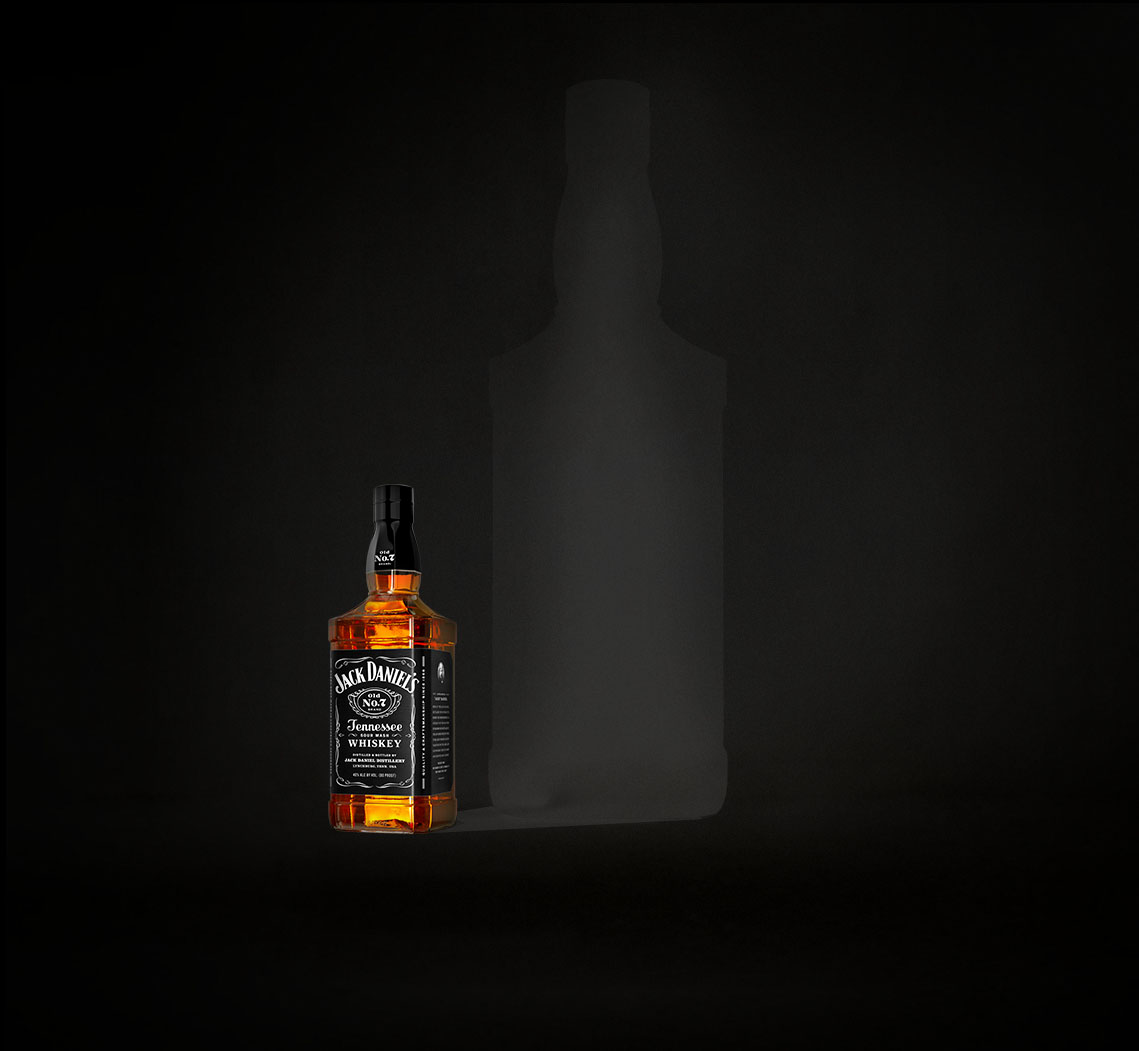
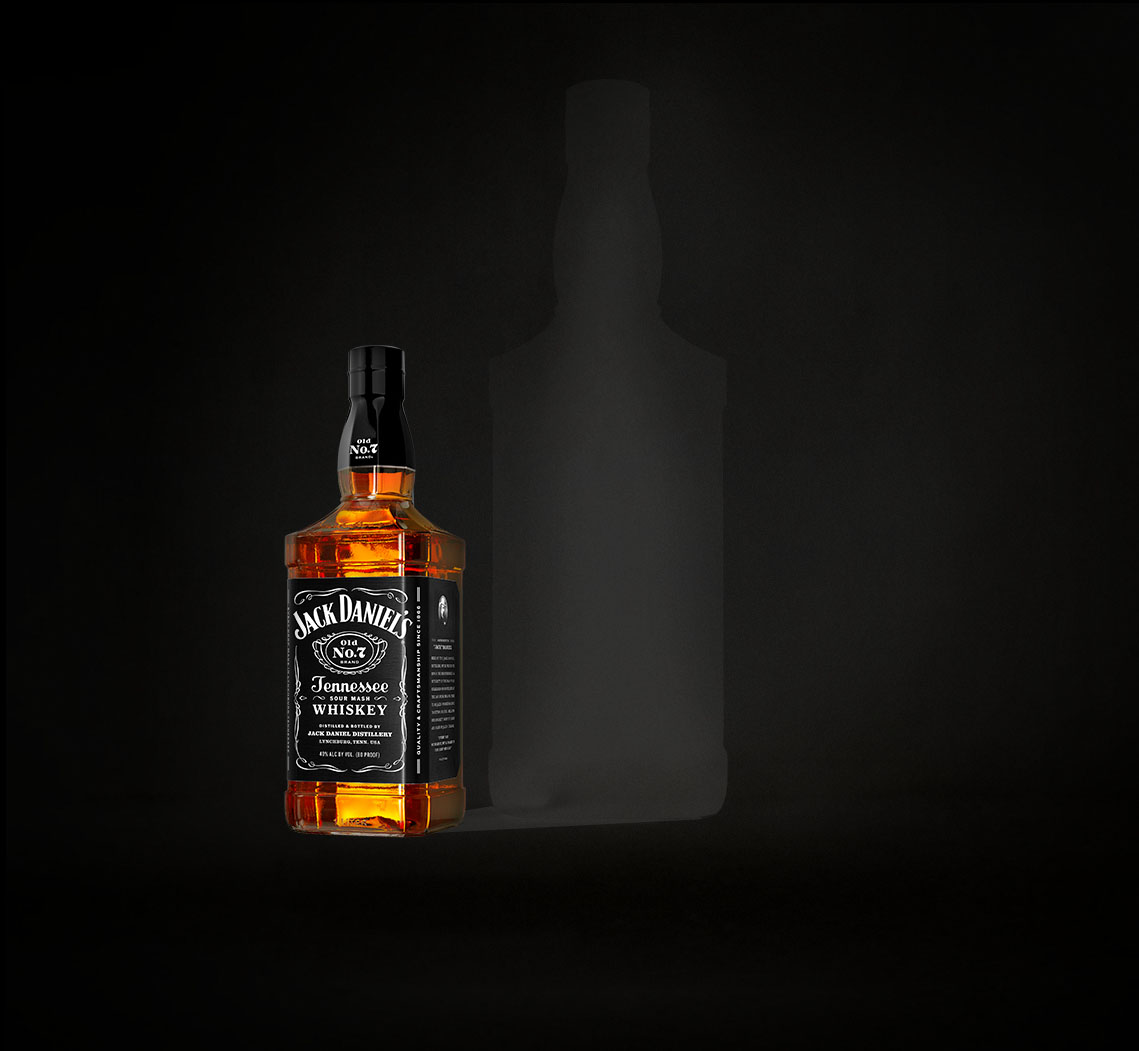
powiększenie butelki i przesunięcie tekstu w cieniu

Changed region(s): [[0.2458, 0.3349, 0.4302, 0.8221]]

diff --git a/jackDaniels_interakcja_tetris/jackDaniels_interakcja_tetris.js b/jackDaniels_interakcja_tetris/jackDaniels_interakcja_tetris.js
@@ -9,17 +9,17 @@ let fontFranklin;
 let maska;
 let tlo;
 let tlo2;
-let ileW = [0, 0];
-let t = [0, -50];
-let zi = [0, 0];
+let ileW = [0, 0,0];
+let t = [0, -50,-40];
+let zi = [0, 0,0];
 
-let okres = [10, 10];
-let ruch = [true, true];
+let okres = [10, 10,10];
+let ruch = [true, true,true];
 
 let szerokoscButelki = 706; 
 let wysokoscButelki = 810;
-let startTekstX = [475, 640];
-let yy = [wysokoscButelki+10, wysokoscButelki+20];
+let startTekstX = [530, 695, 365];
+let yy = [wysokoscButelki+10, wysokoscButelki+20, wysokoscButelki+20];
 
 function preload() {
   fontJasper = loadFont("font/JasperPl-Caps.otf");  
@@ -65,7 +65,6 @@ function draw() {
   tlo.mask(maska);
   image(tlo, 0, 0);
 }
-
 
 class Zdanie {
   constructor(txt, nr, x, ik) {
@@ -214,7 +213,7 @@ class Zdanie {
 
   sprawdzGranice(txt, s, font) {
     let granice = font.textBounds(txt, startTekstX[0], 0, s);//tu jest startTekstX[0] a nie startTekstX[ik], żeby wielkości napisów były takie same we wszystkich kolumnach
-    if (granice.x + granice.w > szerokoscButelki-80) {
+    if (granice.x + granice.w > szerokoscButelki-25) {
       return false;
     } else {
       return true;
